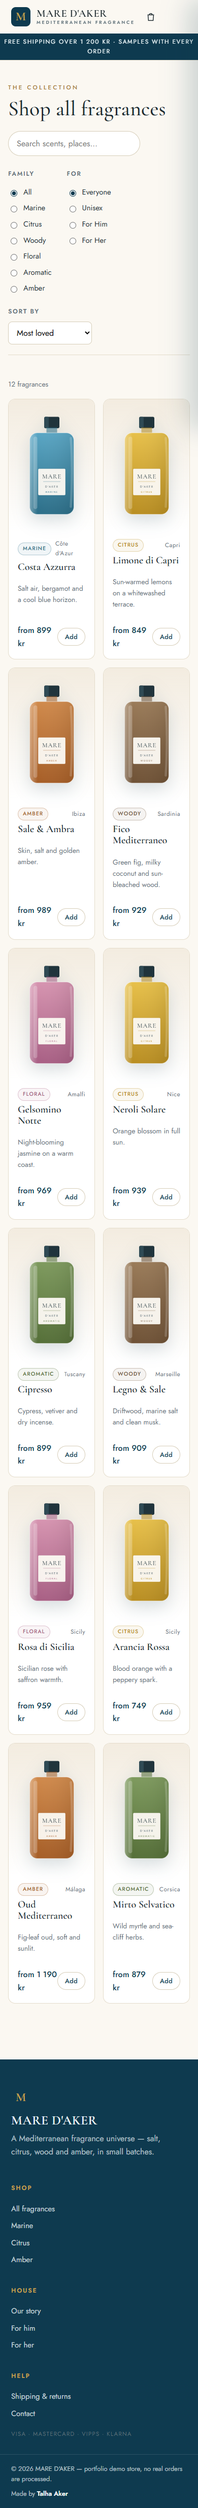
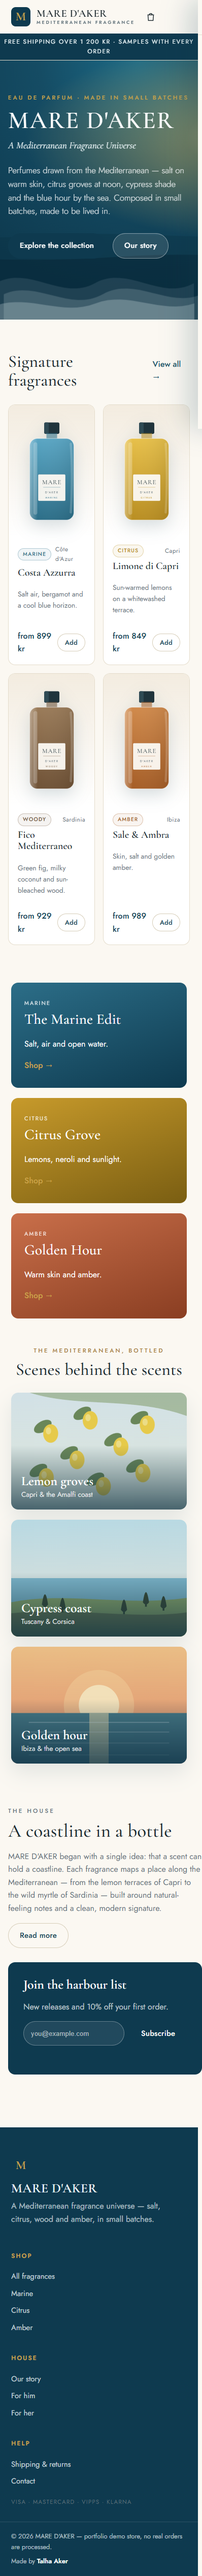
Refresh screenshots to show the new scenery; add scenes image to README

diff --git a/README.md b/README.md
@@ -30,6 +30,12 @@ static files.
 - **Design** — Mediterranean theme with animated hero waves and **hand-built SVG bottle art** tinted per fragrance family (no image files needed)
 - **Responsive** and keyboard-accessible, with reduced-motion support
 
+### Hand-built visuals
+
+Every bottle and every scene is **generated SVG** — no stock photos, no image files. The Mediterranean mood (a low sun and headlands behind the hero, plus lemon groves, cypress coast and golden hour) is drawn entirely in code.
+
+![Mediterranean scenes](assets/scenery.png)
+
 | Product page | Checkout |
 |---|---|
 | ![Product](assets/product.png) | ![Checkout](assets/checkout.png) |
